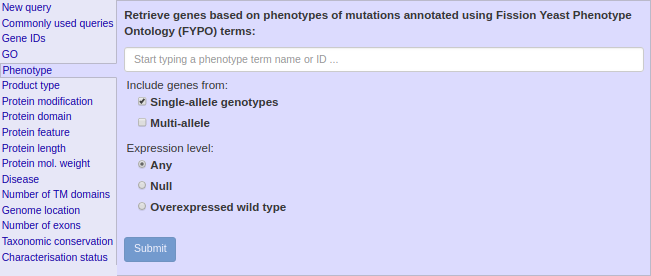
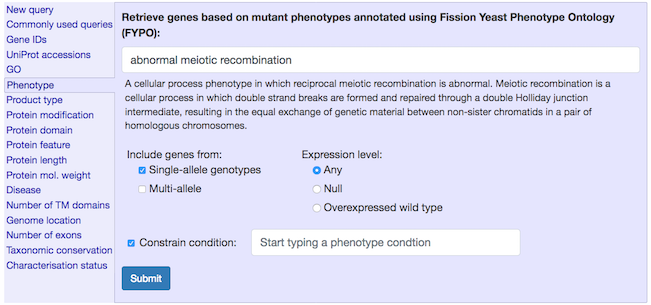
update documentation & screenshot for phenotype condition querying #56

diff --git a/src/docs/documentation/advanced-search.md b/src/docs/documentation/advanced-search.md
@@ -141,27 +141,44 @@ in AmiGO.
 The phenotype (Fission Yeast Phenotype Ontology) query retrieves genes
 annotated to a FYPO term and to any of its child terms, following the
 *is_a*, *part_of*, *output_of*, *has_output*, and *has_part*
-relationships in the ontology. This query also offers two additional
+relationships in the ontology. This query also offers three additional
 sets of options:
 
 ![phenotype search options](assets/fypo_search_options.png){width="651"}
 
-By default, the phenotype search retrieves genes from single-allele
-genotypes annotated to the searched FYPO term. You can alter the
-selected options to add genes from multi-allele genotypes. See the
-[gene page phenotype documentation](documentation/gene-page-phenotypes)
-and the [genotype page documentation](documentation/genotype-page)
-for more information.
+**Alleles:** By default, the phenotype search retrieves genes from
+single-allele genotypes annotated to the searched FYPO term. You can
+alter the selected options to add genes from multi-allele
+genotypes. See the [gene page phenotype
+documentation](documentation/gene-page-phenotypes) and the [genotype
+page documentation](documentation/genotype-page) for more information.
 
-Different alleles of one gene may have different phenotypes, and one
-allele may give rise to different phenotypes under different
-experimental conditions. At present, you can retrieve annotations for
-all alleles of a gene, or use the "Expression level" options restrict
-the query to null alleles (covers deletions and any other sequence
-changes, such as most disruptions, that completely abolish expression
-of the gene) or overexpression of the wild type allele.
+**Expression:** Different alleles of one gene may have different
+phenotypes, and one allele may give rise to different phenotypes under
+different experimental conditions. At present, you can retrieve
+annotations for all alleles of a gene, or use the "Expression level"
+options restrict the query to null alleles (covers deletions and any
+other sequence changes, such as most disruptions, that completely
+abolish expression of the gene) or overexpression of the wild type
+allele.
 
-It is not yet possible to use condition details in the search.
+**Conditions:** The "Constrain condition" option restricts the results
+to include only genes that have phenotype annotations including the
+specified condition. The search uses the same condition descriptors as
+Canto and the PomBase web pages. Start typing, then choose from the
+autocomplete options.
+
+Note that the results will include any gene that has phenotype
+annotations including the specified condition *for any
+allele*. Queries that include conditions can be combined using the
+AND, NOT, or OR operators like any other, but the result of any
+combination of phenotype queries will likely include annotations for
+different alleles. There may not be any individual annotation in which
+both/all of multiple conditions co-occur.
+
+The search does not yet support querying for multiple conditions on
+the same annotation, nor for queries that *exclude* a given condition;
+both are planned for future development.
 
 #### Product type
 
